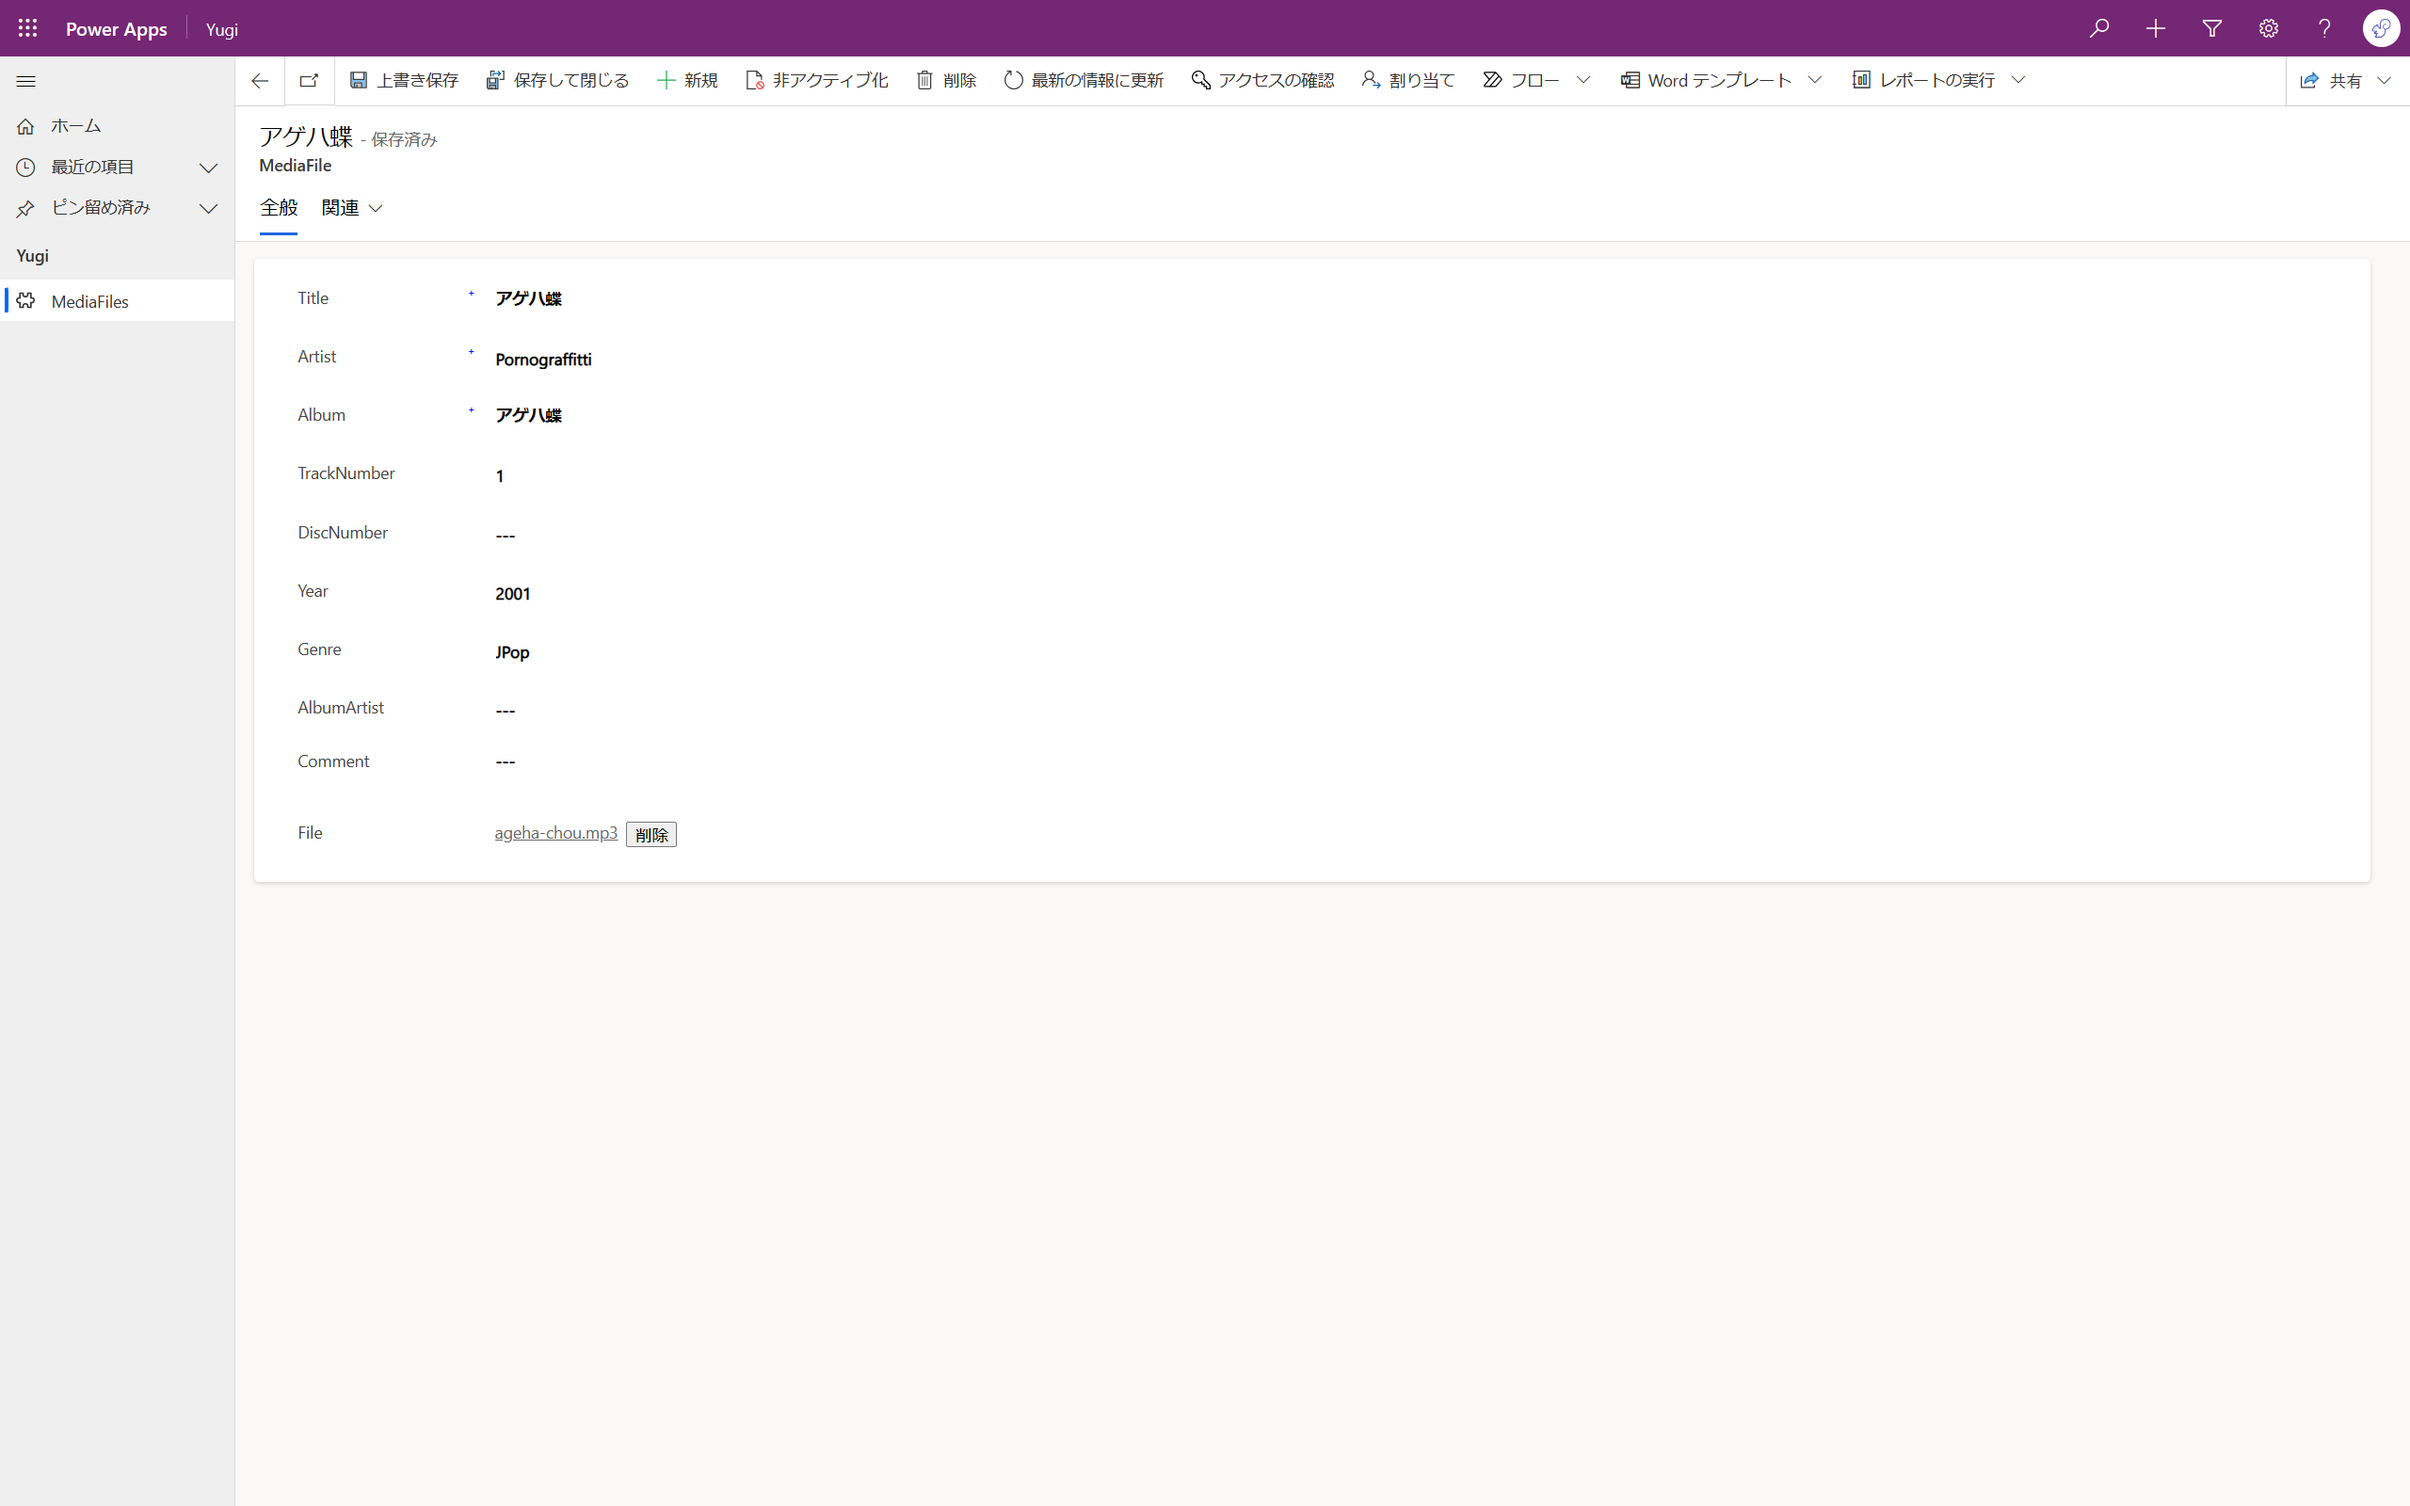
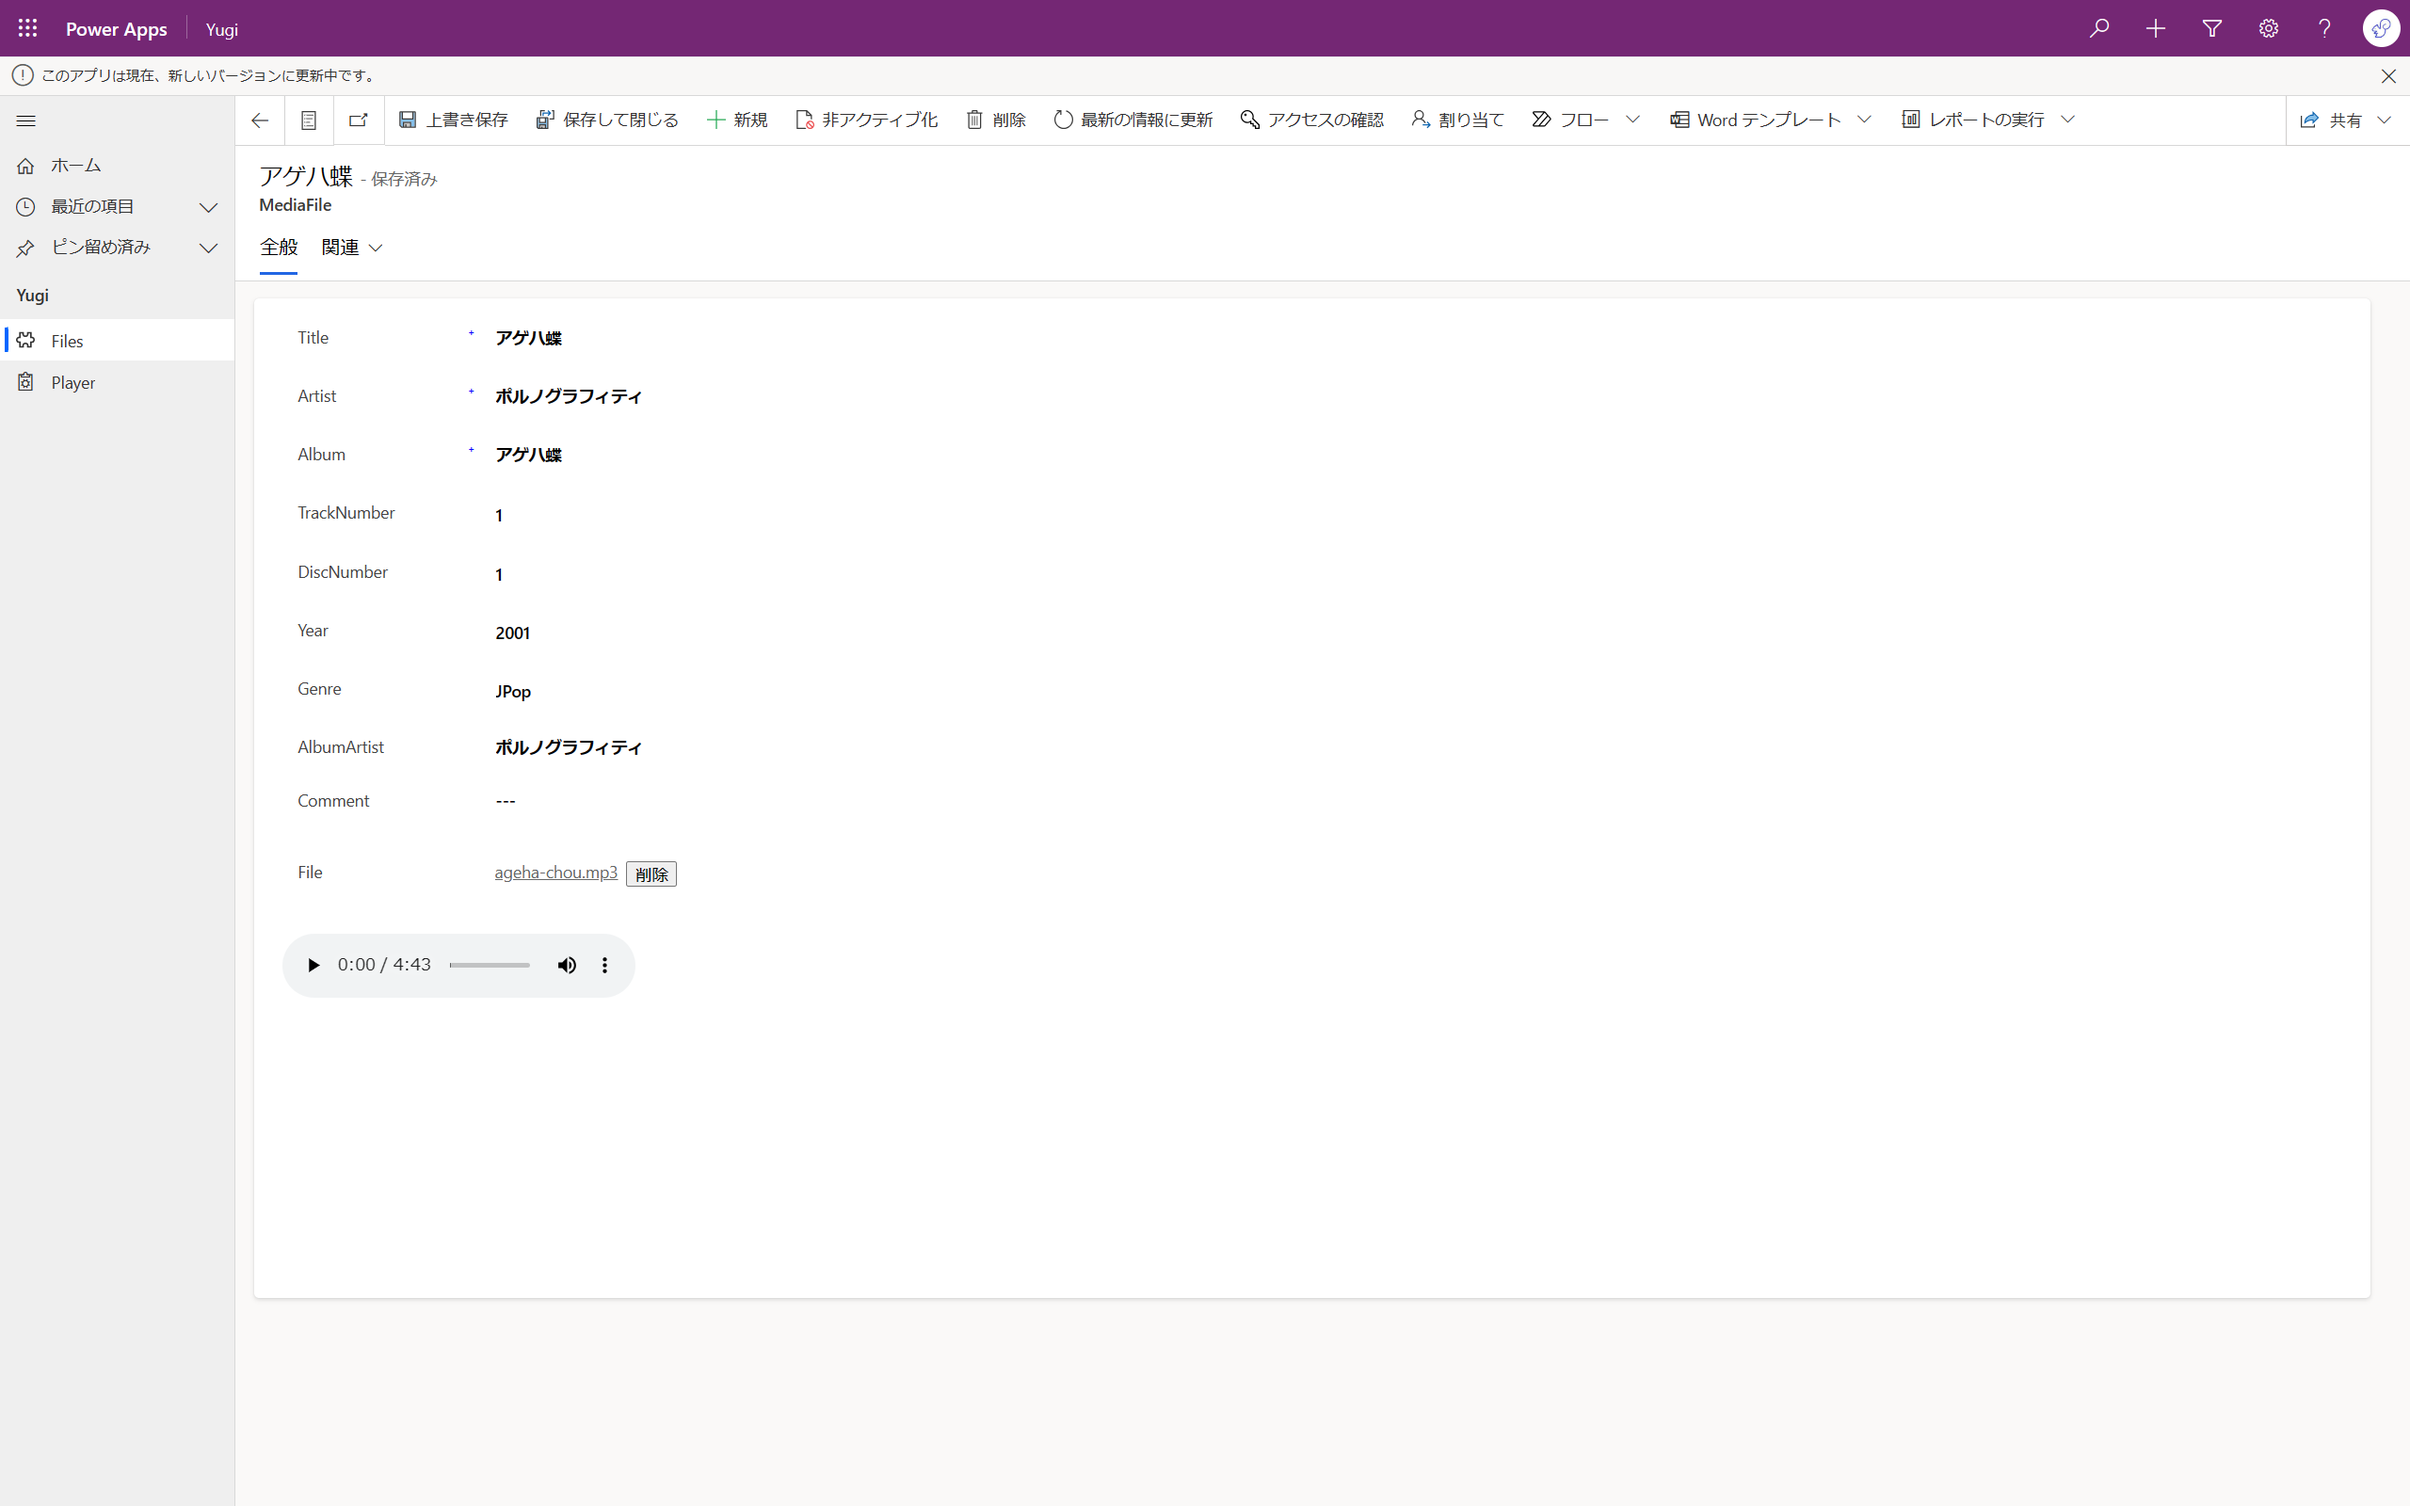
Updates
フォームにaudioタグを追加

diff --git a/WebResources/audio.html b/WebResources/audio.html
@@ -3,3 +3,35 @@
         Download audio file
     </a>
 </audio>
+<script>
+    const parseQueries = () => {
+        console.log('location.search', location.search)
+        const params = location.search.substr(1)
+        result = {}
+
+        if (!params)
+            return result
+
+        params.split('&').forEach((s) => {
+            const arr = s.split('=')
+            result[arr[0]] = arr[1]
+        })
+
+        return result
+    }
+
+    document.onreadystatechange = function () {
+        if (document.readyState == 'complete') {
+            (function () {
+                const queries = parseQueries()
+                console.log('queries', queries)
+                if (Object.keys(queries).length == 0 || typeof document.getElementById('form-audio-tag') === 'undefined') {
+                    setTimeout(arguments.callee, 200);
+                } else {
+                    const u = '/api/data/v9.0/ya_mediafiles(' + queries['id'] + ')/ya_file/$value'
+                    document.getElementById('form-audio-tag').src = u
+                }
+            })();
+        }
+    }
+</script>

diff --git a/WebResources/Yugi.js b/WebResources/Yugi.js
@@ -9,11 +9,6 @@ var Yugi = window.Yugi || {};
     this.formOnLoad = function (executionContext) {
         var formContext = executionContext.getFormContext();
 
-        const fileValue = formContext.getAttribute("ya_file").getValue();
-        if (fileValue) {
-           // document.getElementById("form-audio-tag").src = fileValue.fileUrl;
-        }
-
         // Display the form level notification as an INFO
         /// formContext.ui.setFormNotification(message, "INFO", myUniqueId);
 
